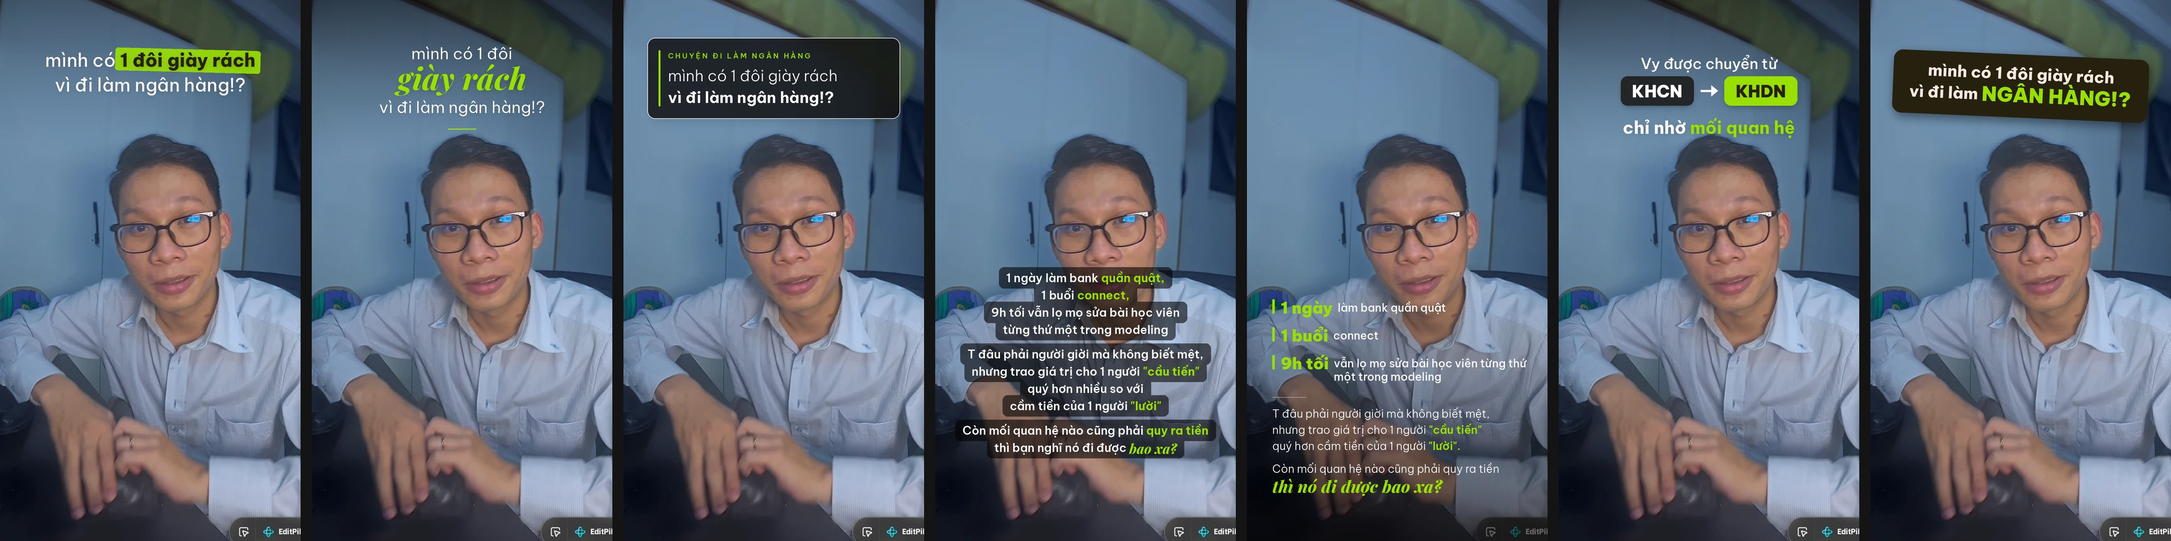
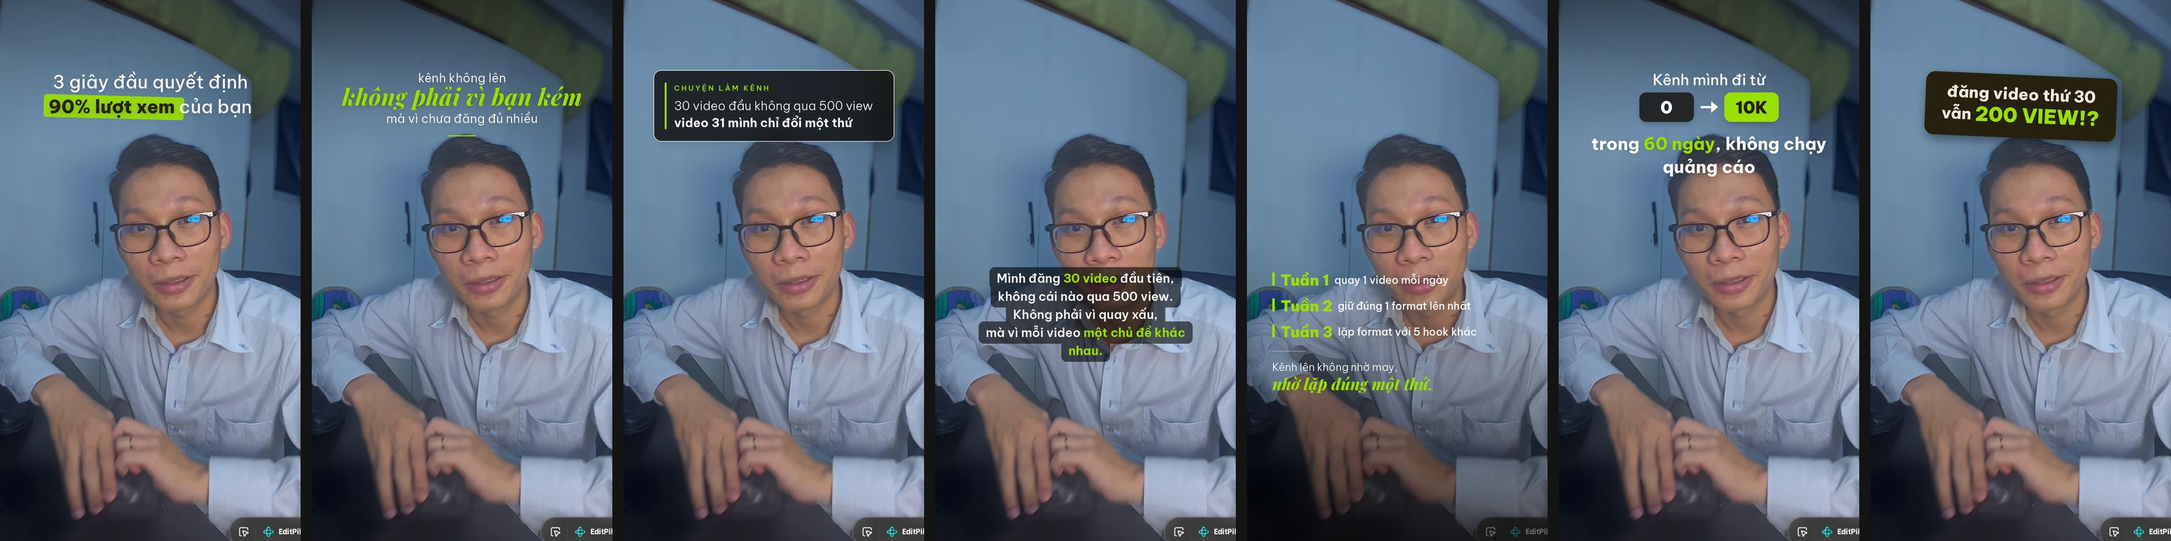
Vùng an toàn theo nền tảng cho hook text
Web tool: chọn TikTok, IG/FB Reels, Meta Ads, Shorts hoặc cả ba; vẽ khung
UI đè lên preview; cảnh báo đỏ khi chữ lẹm vào thanh trên, caption hay
cột icon; nút tự đẩy chữ vào vùng an toàn. Vị trí và bề rộng mặc định
đổi theo số liệu safe zone. Script Python và SKILL.md kiểm tra và ghi
cảnh báo tương tự; ví dụ đổi sang nội dung làm kênh.

Claude-Session: https://claude.ai/code/session_0128yqN4exyaiBnw6Q2oeZMf

diff --git a/tools/hook-text.html b/tools/hook-text.html
@@ -102,6 +102,13 @@
   .strip button[aria-pressed="true"]{border-color:var(--accent)}
   .strip canvas{width:100%;height:auto;display:block;border-radius:5px;background:#111}
   .meta{display:flex;justify-content:space-between;color:var(--muted);font-size:12px;margin-top:8px;font-variant-numeric:tabular-nums}
+  .safe{margin-top:10px;border:1px solid var(--line);border-radius:12px;padding:10px 12px;background:var(--surface)}
+  .safe .row{gap:6px}
+  .safe-status{font-size:12.5px;margin-top:8px;line-height:1.45}
+  .safe-status.bad{color:var(--danger);font-weight:600}
+  .safe-status.good{color:var(--ok);font-weight:600}
+  .phone{position:relative}
+  .phone canvas#uiLayer{position:absolute;inset:8px;width:calc(100% - 16px);height:calc(100% - 16px);pointer-events:none;border-radius:16px;background:transparent}
 
   .out-actions{display:flex;gap:8px;flex-wrap:wrap}
   .guide{background:var(--surface-2);border:1px solid var(--line);border-radius:10px;padding:12px;font-size:13px;white-space:pre-wrap;max-height:260px;overflow:auto;line-height:1.55}
@@ -195,9 +202,9 @@
 
       <section class="card">
         <h2><span class="n">4</span>Tinh chỉnh</h2>
-        <div class="slider"><span>Vị trí dọc</span><input type="range" id="ypct" min="3" max="80" value="8"><output id="ypctOut">8%</output></div>
+        <div class="slider"><span>Vị trí dọc</span><input type="range" id="ypct" min="3" max="80" value="13"><output id="ypctOut">13%</output></div>
         <div class="slider"><span>Cỡ chữ</span><input type="range" id="size" min="30" max="110" value="66"><output id="sizeOut">66px</output></div>
-        <div class="slider"><span>Bề rộng tối đa</span><input type="range" id="maxw" min="60" max="96" value="86"><output id="maxwOut">86%</output></div>
+        <div class="slider"><span>Bề rộng tối đa</span><input type="range" id="maxw" min="60" max="96" value="80"><output id="maxwOut">80%</output></div>
         <div class="row" style="margin-top:6px">
           <span class="hint" style="margin:0">Căn:</span>
           <div class="seg" id="align" role="group" aria-label="Căn lề"><button data-v="center" aria-pressed="true">Giữa</button><button data-v="left" aria-pressed="false">Trái</button></div>
@@ -253,7 +260,7 @@
 3. Animation → In: Fade 0.3s hoặc Slide up 0.4s. Out: Fade 0.3s. Không dùng hiệu ứng nảy, xoay.
 4. Nếu mẫu có phủ tối: thêm hình chữ nhật đen (Stickers → Shapes), kéo che vùng chữ, Opacity 40 đến 55%, Mask → Linear để mờ dần, đặt dưới lớp chữ.
 5. Muốn gõ chữ trực tiếp thay vì dùng PNG: Text → Add text, font Be Vietnam Pro (CapCut có sẵn), cỡ và màu theo thông số trên, Shadow đen 60 đến 70%, Blur 10 đến 12.
-6. Vùng an toàn: cách mép trên 6%, cách mép dưới 22% (nơi TikTok đặt caption và nút). Không đè chữ lên mặt.</div>
+6. Vùng an toàn: trên 150px, dưới 484px, cột phải 140px trên khung 1080x1920 (TikTok); IG/FB Reels trên 220px, dưới 430px; Meta Ads trên 14%, dưới 35%, hai bên 6%. Bật "Hiện khung UI" bên preview để soi. Không đè chữ lên mặt.</div>
         </details>
       </section>
 
@@ -285,9 +292,24 @@
     </div>
 
     <aside class="col preview-col">
-      <div class="phone"><canvas id="preview" width="1080" height="1920"></canvas></div>
+      <div class="phone"><canvas id="preview" width="1080" height="1920"></canvas><canvas id="uiLayer" width="1080" height="1920" aria-hidden="true"></canvas></div>
       <div class="strip" id="strip"></div>
       <div class="meta"><span id="metaSize">1080 × 1920</span><span id="metaTpl">highlight</span></div>
+      <div class="safe">
+        <div class="row" style="justify-content:space-between">
+          <b style="font-size:13px">Vùng an toàn</b>
+          <label style="font-size:12.5px;color:var(--muted);display:flex;gap:6px;align-items:center"><input type="checkbox" id="showUi" checked> Hiện khung UI</label>
+        </div>
+        <div class="seg" id="platform" role="group" aria-label="Nền tảng" style="margin-top:8px;flex-wrap:wrap">
+          <button data-v="all" aria-pressed="true">Cả 3</button>
+          <button data-v="tiktok" aria-pressed="false">TikTok</button>
+          <button data-v="meta" aria-pressed="false">IG / FB Reels</button>
+          <button data-v="metaads" aria-pressed="false">Meta Ads</button>
+          <button data-v="shorts" aria-pressed="false">Shorts</button>
+        </div>
+        <div class="safe-status" id="safeStatus"></div>
+        <div class="row" style="margin-top:8px"><button class="btn sm" id="btnFit">Đẩy chữ vào vùng an toàn</button></div>
+      </div>
     </aside>
   </div>
 </div>
@@ -319,24 +341,24 @@ const PRESETS = [
   { name: 'Xanh dương', c: { accent: '#4DA3FF', dark: '#0E1626', light: '#FFFFFF', cream: '#EEF5FF' } },
 ];
 const TEMPLATES = {
-  highlight: { name: 'Vệt bút dạ', desc: 'Chữ trắng, từ khóa trong vệt highlight. Mặc định cho kênh.', size: 66, y: 8 },
-  editorial: { name: 'Editorial', desc: 'Sans nhẹ, cụm chốt serif nghiêng to. Sang, kể chuyện.', size: 58, y: 8 },
-  glass:     { name: 'Kính mờ', desc: 'Thẻ blur nền, có dòng chủ đề. Hợp nền rối, series.', size: 56, y: 7 },
-  sticker:   { name: 'Sticker', desc: 'Thẻ đen nghiêng, chữ kem. Hài, đời thường.', size: 58, y: 9 },
-  bubbles:   { name: 'Hộp chữ', desc: 'Hộp đen từng dòng kiểu TikTok. Text dài, tâm sự.', size: 46, y: 52 },
-  timeline:  { name: 'Mốc song song', desc: '3 mốc màu nhấn bên trái. Ba ý, ba bước.', size: 40, y: 55 },
-  chips:     { name: 'Từ A sang B', desc: 'Hai chip nối mũi tên. Chuyển đổi, hành trình.', size: 60, y: 10 },
+  highlight: { name: 'Vệt bút dạ', desc: 'Chữ trắng, từ khóa trong vệt highlight. Mặc định cho kênh.', size: 66, y: 13 },
+  editorial: { name: 'Editorial', desc: 'Sans nhẹ, cụm chốt serif nghiêng to. Sang, kể chuyện.', size: 58, y: 13 },
+  glass:     { name: 'Kính mờ', desc: 'Thẻ blur nền, có dòng chủ đề. Hợp nền rối, series.', size: 56, y: 13 },
+  sticker:   { name: 'Sticker', desc: 'Thẻ đen nghiêng, chữ kem. Hài, đời thường.', size: 58, y: 13 },
+  bubbles:   { name: 'Hộp chữ', desc: 'Hộp đen từng dòng kiểu TikTok. Text dài, tâm sự.', size: 46, y: 50 },
+  timeline:  { name: 'Mốc song song', desc: '3 mốc màu nhấn bên trái. Ba ý, ba bước.', size: 40, y: 50 },
+  chips:     { name: 'Từ A sang B', desc: 'Hai chip nối mũi tên. Chuyển đổi, hành trình.', size: 60, y: 13 },
   titlecard: { name: 'Thẻ tiêu đề', desc: 'Phủ tối toàn khung, một câu thật to. Frame đầu tiên, 5 đến 8 từ.', size: 84, y: 40 },
   list:      { name: 'Danh sách số', desc: 'Số trong tròn màu nhấn, mỗi dòng một ý. Kiểu "3 điều...".', size: 46, y: 50 },
-  knockout:  { name: 'Chữ đục lỗ', desc: 'Dải tối, chữ khoét thấy video phía sau. Tạp chí, thời trang.', size: 110, y: 12 },
-  lowerthird:{ name: 'Lower third', desc: 'Thanh tên góc dưới trái, dòng nhỏ + dòng đậm. Giới thiệu, phỏng vấn.', size: 50, y: 64 },
-  quote:     { name: 'Trích dẫn', desc: 'Dấu ngoặc kép to, serif nghiêng, dòng ký tên. Cảm xúc, chiêm nghiệm.', size: 60, y: 56 },
-  pov:       { name: 'Nhãn POV', desc: 'Chip nhãn nhỏ phía trên, câu to, dòng phụ nhỏ. Phân cấp 3 tầng.', size: 72, y: 9 },
-  outline:   { name: 'Chữ viền rỗng', desc: 'Chữ chỉ có viền trắng, từ khóa tô đặc màu nhấn. Táo bạo, trẻ.', size: 96, y: 10 },
+  knockout:  { name: 'Chữ đục lỗ', desc: 'Dải tối, chữ khoét thấy video phía sau. Tạp chí, thời trang.', size: 110, y: 14 },
+  lowerthird:{ name: 'Lower third', desc: 'Thanh tên góc dưới trái, dòng nhỏ + dòng đậm. Giới thiệu, phỏng vấn.', size: 50, y: 60 },
+  quote:     { name: 'Trích dẫn', desc: 'Dấu ngoặc kép to, serif nghiêng, dòng ký tên. Cảm xúc, chiêm nghiệm.', size: 60, y: 50 },
+  pov:       { name: 'Nhãn POV', desc: 'Chip nhãn nhỏ phía trên, câu to, dòng phụ nhỏ. Phân cấp 3 tầng.', size: 72, y: 13 },
+  outline:   { name: 'Chữ viền rỗng', desc: 'Chữ chỉ có viền trắng, từ khóa tô đặc màu nhấn. Táo bạo, trẻ.', size: 96, y: 13 },
 };
 const state = {
   frame: null, frameName: '', facePos: 'mid',
-  template: 'highlight', ypct: 8, size: 66, maxw: 86, align: 'center', dim: 'auto',
+  template: 'highlight', ypct: 13, size: 66, maxw: 80, align: 'center', dim: 'auto',
   brand: { ...TMXK }, kicker: 'Chuyện làm kênh', tilt: -2.5,
   rows: [['Tuần 1', 'quay 1 video mỗi ngày, không cần đẹp'], ['Tuần 2', 'xem lại 7 video, giữ đúng 1 format lên nhất'], ['Tuần 3', 'lặp format đó với 5 hook khác nhau']],
   chips: ['0', '10K'], lead: 'Kênh mình đi từ',
@@ -659,6 +681,79 @@ T.outline = (c, ov) => {
 const DEFAULT_DIM = { highlight: ['top', .28, .35], editorial: ['top', .30, .55], chips: ['top', .28, .47], timeline: ['bottom', .55, .6], bubbles: null, glass: null, sticker: null,
   titlecard: null, list: ['bottom', .6, .62], knockout: null, lowerthird: null, quote: ['bottom', .6, .6], pov: ['top', .32, .5], outline: ['top', .3, .45] };
 
+/* ---------- vùng an toàn theo nền tảng (khung 1080x1920) ---------- */
+// Nguồn: template safe zone quảng cáo TikTok (trên 130, dưới 484, phải 140, trái 44);
+// Meta Reels IG/FB tổ chức: trên 220, dưới 430, phải 130; Meta Ads chính thức: trên 14%, dưới 35%, hai bên 6%;
+// YouTube Shorts: trên 150, dưới 450, phải 150.
+const ZONES = {
+  tiktok: { name: 'TikTok', rects: [
+    { n: 'thanh trên (Following / For You)', x: 0, y: 0, w: 1080, h: 150 },
+    { n: 'caption, tên kênh, nhạc', x: 0, y: 1436, w: 1080, h: 484 },
+    { n: 'cột icon like, comment, share', x: 940, y: 980, w: 140, h: 470 },
+    { n: 'mép trái', x: 0, y: 0, w: 44, h: 1920 } ] },
+  meta: { name: 'IG / FB Reels', rects: [
+    { n: 'tiêu đề Reels, camera', x: 0, y: 0, w: 1080, h: 220 },
+    { n: 'caption, tên tài khoản, audio', x: 0, y: 1490, w: 1080, h: 430 },
+    { n: 'cột icon like, comment, share', x: 950, y: 1130, w: 130, h: 600 },
+    { n: 'mép trái', x: 0, y: 0, w: 60, h: 1920 } ] },
+  metaads: { name: 'Meta Ads (Reels, Stories)', rects: [
+    { n: 'vùng trên 14%', x: 0, y: 0, w: 1080, h: 269 },
+    { n: 'vùng dưới 35% (CTA, caption)', x: 0, y: 1248, w: 1080, h: 672 },
+    { n: 'mép trái 6%', x: 0, y: 0, w: 65, h: 1920 },
+    { n: 'mép phải 6%', x: 1015, y: 0, w: 65, h: 1920 } ] },
+  shorts: { name: 'YouTube Shorts', rects: [
+    { n: 'thanh trên', x: 0, y: 0, w: 1080, h: 150 },
+    { n: 'tiêu đề, kênh, nhạc', x: 0, y: 1470, w: 1080, h: 450 },
+    { n: 'cột icon', x: 930, y: 1000, w: 150, h: 560 } ] },
+};
+const PLATFORM_SETS = { all: ['tiktok', 'meta', 'shorts'], tiktok: ['tiktok'], meta: ['meta'], metaads: ['metaads'], shorts: ['shorts'] };
+state.platform = 'all'; state.showUi = true;
+function zoneRects(H) { const sc = H / 1920; const out = []; for (const k of PLATFORM_SETS[state.platform]) for (const r of ZONES[k].rects) out.push({ ...r, x: r.x, y: r.y * sc, w: r.w, h: r.h * sc, plat: ZONES[k].name }); return out; }
+function drawUiLayer(H) {
+  const cv = $('#uiLayer'); cv.width = BASE_W; cv.height = H; const g = cv.getContext('2d'); g.clearRect(0, 0, BASE_W, H);
+  if (!state.showUi) return;
+  for (const r of zoneRects(H)) {
+    g.fillStyle = 'rgba(220,60,40,.18)'; g.fillRect(r.x, r.y, r.w, r.h);
+    g.save(); g.beginPath(); g.rect(r.x, r.y, r.w, r.h); g.clip(); g.strokeStyle = 'rgba(220,60,40,.35)'; g.lineWidth = 3;
+    for (let d = -H; d < BASE_W + H; d += 48) { g.beginPath(); g.moveTo(r.x + d, r.y); g.lineTo(r.x + d + r.h, r.y + r.h); g.stroke(); } g.restore();
+    g.strokeStyle = 'rgba(220,60,40,.7)'; g.lineWidth = 3; g.setLineDash([12, 10]); g.strokeRect(r.x + 1.5, r.y + 1.5, r.w - 3, r.h - 3); g.setLineDash([]);
+  }
+  // nhãn gọn ở mép
+  g.font = '700 26px "Be Vietnam Pro", system-ui, sans-serif'; g.fillStyle = 'rgba(220,60,40,.9)'; g.textAlign = 'left';
+  const top = Math.max(...zoneRects(H).filter(r => r.y === 0 && r.w === BASE_W).map(r => r.h), 0); if (top) g.fillText('vùng UI trên', 24, top - 14);
+  const bot = zoneRects(H).filter(r => r.y + r.h >= H - 1 && r.w === BASE_W).map(r => r.y); if (bot.length) g.fillText('vùng caption / nút', 24, Math.min(...bot) + 34);
+}
+function checkSafe(bbox, H) {
+  const el = $('#safeStatus'); if (!bbox) { el.textContent = ''; el.className = 'safe-status'; return; }
+  const hits = []; const seen = new Set();
+  for (const r of zoneRects(H)) { const ix = Math.min(bbox.right, r.x + r.w) - Math.max(bbox.left, r.x); const iy = Math.min(bbox.bot, r.y + r.h) - Math.max(bbox.top, r.y); if (ix > 6 && iy > 6) { const key = r.plat + ': ' + r.n; if (!seen.has(key)) { seen.add(key); hits.push(key); } } }
+  const zr = zoneRects(H); const topZ = Math.max(...zr.filter(r => r.y === 0 && r.w === BASE_W).map(r => r.h), 0); const botZ = Math.min(...zr.filter(r => r.y + r.h >= H - 1 && r.w === BASE_W).map(r => r.y), H);
+  const tooTall = (bbox.bot - bbox.top) > (botZ - topZ - 24);
+  if (hits.length) { el.className = 'safe-status bad'; el.textContent = 'Chữ đang lẹm vào ' + hits.join(' · ') + (tooTall ? '. Khối chữ cao hơn cả vùng an toàn: giảm cỡ chữ hoặc tách thành nhiều khối hiện lần lượt.' : '. Bấm nút bên dưới hoặc kéo thanh Vị trí dọc.'); }
+  else { el.className = 'safe-status good'; el.textContent = `Sạch. Chữ nằm ngoài mọi vùng UI của ${PLATFORM_SETS[state.platform].map(k => ZONES[k].name).join(', ')}.`; }
+  return hits.length;
+}
+function fitToSafe() {
+  if (!lastRender) return; const H = lastRender.fr.height; const bbox = alphaBBox(lastRender.ov); if (!bbox) return;
+  const zr = zoneRects(H); const topZ = Math.max(...zr.filter(r => r.y === 0 && r.w === BASE_W).map(r => r.h), 0);
+  const botZ = Math.min(...zr.filter(r => r.y + r.h >= H - 1 && r.w === BASE_W).map(r => r.y), H);
+  const rightCol = zr.filter(r => r.x + r.w >= BASE_W - 1 && r.h < H); const leftM = Math.max(...zr.filter(r => r.x === 0 && r.h >= H - 1).map(r => r.w), 0);
+  const textH = bbox.bot - bbox.top; const pad = 16;
+  // 1) co bề rộng để né cột icon phải và mép trái
+  const rightM = rightCol.length ? Math.max(...rightCol.map(r => r.w)) : Math.max(...zr.filter(r => r.x + r.w >= BASE_W - 1).map(r => r.w), 0);
+  const allowW = BASE_W - 2 * Math.max(leftM, rightM) - 2 * pad; const newMaxw = Math.max(60, Math.min(state.maxw, Math.floor(allowW / BASE_W * 100)));
+  // 2) chọn vị trí: giữ ở nửa đang đứng (trên hoặc dưới), đẩy vào trong
+  const curTop = bbox.top; let newTop;
+  const upperBand = [topZ + pad, Math.min(...rightCol.map(r => r.y), botZ) - pad];   // trên cột icon
+  const lowerBand = [Math.max(...rightCol.map(r => r.y + r.h), topZ) + pad, botZ - pad]; // dưới cột icon (chỉ khi né được)
+  const fitsUpper = textH <= upperBand[1] - upperBand[0]; const fitsLower = rightCol.length && textH <= lowerBand[1] - lowerBand[0];
+  if (curTop < H / 2) newTop = fitsUpper ? Math.min(Math.max(curTop, upperBand[0]), upperBand[1] - textH) : topZ + pad;
+  else newTop = (fitsLower ? Math.min(Math.max(curTop, lowerBand[0]), lowerBand[1] - textH) : Math.max(topZ + pad, botZ - pad - textH));
+  const shift = newTop - bbox.top; state.ypct = Math.round(Math.min(80, Math.max(3, state.ypct + shift / H * 100)));
+  if (newMaxw < state.maxw) state.maxw = newMaxw;
+  syncSliders(); render().then(() => { const n = checkSafe(alphaBBox(lastRender.ov), lastRender.fr.height); toast(n ? 'Đã đẩy vào, còn vướng một chút: giảm cỡ chữ hoặc bớt dòng.' : 'Đã đưa vào vùng an toàn.'); });
+}
+
 /* ---------- render pipeline ---------- */
 let fontsReady = false;
 async function ensureFonts() {
@@ -695,6 +790,7 @@ async function render() {
   lastRender = { fr, ov, notes, dm, opts };
   $('#metaSize').textContent = `${fr.width} × ${fr.height}`; $('#metaTpl').textContent = TEMPLATES[opts.template].name;
   const bbox = alphaBBox(ov); writeGuide(opts, notes, dm, bbox, fr.height);
+  drawUiLayer(fr.height); checkSafe(bbox, fr.height);
   renderStrip();
 }
 function alphaBBox(cv) {
@@ -709,6 +805,7 @@ function writeGuide(opts, notes, dm, bbox, H) {
   if (dm) lines.push(`Phủ tối: gradient đen từ mép ${dm[0] === 'top' ? 'trên' : 'dưới'} vào ${Math.round(dm[1] * 100)}% khung, đậm nhất ${Math.round(dm[2] * 100)}%.`);
   lines.push(...notes);
   lines.push(`Màu: nhấn ${opts.brand.accent}, tối ${opts.brand.dark}, chữ sáng ${opts.brand.light}, kem ${opts.brand.cream}.`);
+  lines.push(`Vùng an toàn đã kiểm tra: ${PLATFORM_SETS[state.platform].map(k => ZONES[k].name).join(', ')}. Quy tắc chung: trên 150px, dưới 484px, cột phải 140px trên khung 1080x1920 (Meta Ads chặt hơn: trên 14%, dưới 35%, hai bên 6%).`);
   lines.push(`Font: Be Vietnam Pro và Playfair Display Italic (Google Fonts, miễn phí, đủ dấu tiếng Việt).`);
   $('#guide').textContent = lines.join('\n');
 }
@@ -727,9 +824,9 @@ function renderStrip() {
 function autoY(key) {
   const low = ['bubbles', 'timeline', 'list', 'lowerthird', 'quote'].includes(key);
   if (key === 'titlecard') return 40;
-  if (state.facePos === 'top') return low ? 60 : 62;      // mặt ở trên: đẩy chữ xuống ngực
-  if (state.facePos === 'low') return low ? 8 : 8;        // mặt ở dưới: chữ ở trên
-  return low ? 52 : TEMPLATES[key].y;                     // mặt ở giữa
+  if (state.facePos === 'top') return low ? 50 : 52;      // mặt ở trên: đẩy chữ xuống ngực
+  if (state.facePos === 'low') return 13;        // mặt ở dưới: chữ ở trên
+  return low ? 50 : TEMPLATES[key].y;                     // mặt ở giữa
 }
 
 /* ---------- UI wiring ---------- */
@@ -919,6 +1016,9 @@ function sampleFrame() {
   drop.addEventListener('drop', e => loadFrameFile(e.dataTransfer.files[0]));
   document.addEventListener('paste', e => { const f = [...(e.clipboardData?.files || [])][0]; if (f) loadFrameFile(f); });
 
+  bindSeg('platform', v => { state.platform = v; if (lastRender) { drawUiLayer(lastRender.fr.height); checkSafe(alphaBBox(lastRender.ov), lastRender.fr.height); } });
+  $('#showUi').addEventListener('change', e => { state.showUi = e.target.checked; if (lastRender) drawUiLayer(lastRender.fr.height); });
+  $('#btnFit').addEventListener('click', fitToSafe);
   bindSeg('facePos', v => { state.facePos = v; state.ypct = autoY(state.template); syncSliders(); scheduleRender(); });
   bindSeg('align', v => { state.align = v; scheduleRender(); });
   bindSeg('dim', v => { state.dim = v; scheduleRender(); });

diff --git a/.claude/skills/hook-text/scripts/render.py b/.claude/skills/hook-text/scripts/render.py
@@ -364,6 +364,25 @@ TEMPLATES = {'highlight': t_highlight, 'sticker': t_sticker, 'glass': t_glass, '
 DEFAULT_DIM = {'highlight': ('top', 0.28, 90), 'editorial': ('top', 0.30, 140), 'bubbles': None, 'timeline': ('bottom', 0.55, 150),
                'chips': ('top', 0.28, 120), 'glass': None, 'sticker': None}
 
+
+# Vùng UI các nền tảng trên khung 1080x1920 (tỉ lệ theo chiều cao khi khung khác).
+# TikTok: template safe zone quảng cáo (trên 130-150, dưới 484, cột phải 140, trái 44).
+# IG/FB Reels tổ chức: trên 220, dưới 430, cột phải 130. Meta Ads: trên 14%, dưới 35%, hai bên 6%.
+SAFE_ZONES = {
+    'TikTok': [('thanh trên', 0, 0, 1080, 150), ('caption và tên kênh', 0, 1436, 1080, 484), ('cột icon phải', 940, 980, 140, 470), ('mép trái', 0, 0, 44, 1920)],
+    'IG/FB Reels': [('tiêu đề Reels', 0, 0, 1080, 220), ('caption và audio', 0, 1490, 1080, 430), ('cột icon phải', 950, 1130, 130, 600), ('mép trái', 0, 0, 60, 1920)],
+    'YouTube Shorts': [('thanh trên', 0, 0, 1080, 150), ('tiêu đề và kênh', 0, 1470, 1080, 450), ('cột icon phải', 930, 1000, 150, 560)],
+}
+def safe_zone_hits(bbox, W, H):
+    """Trả về danh sách 'Nền tảng: vùng' mà hộp chữ lẹm vào."""
+    sx, sy = W / 1080, H / 1920; hits = []
+    for plat, rects in SAFE_ZONES.items():
+        for n, x, y, w, h in rects:
+            x, y, w, h = x * sx, y * sy, w * sx, h * sy
+            ix = min(bbox[2], x + w) - max(bbox[0], x); iy = min(bbox[3], y + h) - max(bbox[1], y)
+            if ix > 6 and iy > 6: hits.append(f'{plat}: {n}')
+    return hits
+
 # ---------------------------------------------------------------- main
 def run(spec):
     out = spec.get('out_dir', 'out'); os.makedirs(out, exist_ok=True)
@@ -389,6 +408,12 @@ def run(spec):
         guide.append(f"## {pid} — mẫu `{v['template']}`\n")
         guide.append(f"- Vùng chữ: từ {top_pct:.0f}% đến {bot_pct:.0f}% chiều cao khung, rộng {(bbox[2]-bbox[0])/frame.width*100:.0f}% khung, căn {'giữa' if v.get('align','center')=='center' else 'trái'}.")
         if dm: guide.append(f"- Phủ tối: gradient đen từ mép {'trên' if dm[0]=='top' else 'dưới'} vào {int(dm[1]*100)}% khung, đậm nhất {int(dm[2]/255*100)}%.")
+        hits = safe_zone_hits(bbox, frame.width, frame.height)
+        if hits:
+            guide.append(f"- CẢNH BÁO lẹm vùng UI: {' · '.join(hits)}. Sửa y_pct hoặc giảm size/max_width_pct rồi render lại.")
+            print(f'!! {pid}: lẹm vùng UI -> ' + ' · '.join(hits))
+        else:
+            guide.append("- Vùng an toàn: sạch trên TikTok, IG/FB Reels và YouTube Shorts.")
         for n in ctx.notes: guide.append(f"- {n}")
         guide.append(f"- File: `{pid}-overlay.png` (nền trong suốt) thả thẳng lên timeline, hoặc dựng tay theo thông số trên.\n")
     # contact sheet
@@ -420,7 +445,7 @@ CAPCUT_STEPS = """
 6. Căn vị trí theo % chiều cao đã ghi. Bật lưới (Ruler/Grid) để căn giữa.
 
 **Quy tắc luôn giữ**
-- Không đè chữ lên mặt. Vùng an toàn: cách mép trên 6%, cách mép dưới 22% (nơi TikTok đặt caption và nút).
+- Không đè chữ lên mặt. Vùng an toàn trên khung 1080x1920: TikTok trên 150px, dưới 484px, cột icon phải 140px; IG/FB Reels trên 220px, dưới 430px; Meta Ads chặt hơn: trên 14%, dưới 35%, hai bên 6%. Script tự báo nếu chữ lẹm.
 - Tối đa 2 dòng cho hook mở đầu, cỡ chữ không nhỏ hơn 40px trên khung 1080.
 - Một video chỉ một màu nhấn. Ở đây là màu accent của brand.
 - Hook phải đọc được trong 1 giây đầu: thử tắt tiếng, lướt qua trên điện thoại, nếu không nắm được ý thì cỡ chữ đang nhỏ hoặc câu đang dài.

diff --git a/.claude/skills/hook-text/SKILL.md b/.claude/skills/hook-text/SKILL.md
@@ -20,7 +20,8 @@ Nếu thiếu một trong hai, hỏi đúng thứ thiếu rồi dừng.
 
 Xem ảnh và ghi nhận:
 - **Vị trí mặt và thân người** theo % chiều cao (ví dụ mặt từ 30% đến 55%). Chữ không được đè mặt.
-- **Vùng trống**: thường là phía trên đầu (5% đến 25%) hoặc ngực/tay (55% đến 78%). Vùng dưới 78% là chỗ TikTok đặt caption và nút, tránh.
+- **Vùng trống**: thường là phía trên đầu (12% đến 28%) hoặc ngực/tay (50% đến 74%).
+- **Vùng UI của nền tảng, bắt buộc né** (khung 1080x1920): TikTok trên 150px (8%), dưới 484px (từ 75% trở xuống), cột icon phải 140px trong khoảng 51% đến 76% chiều cao; IG/FB Reels trên 220px (11.5%), dưới 430px (từ 78%), cột icon phải 130px trong khoảng 59% đến 90%; Meta Ads chặt hơn: trên 14%, dưới 35%, hai bên 6%. Vì học viên đăng chéo nền tảng, mặc định né cả TikTok lẫn Reels: bắt đầu chữ từ 12% trở xuống, kết thúc trước 74%, và không để chữ chạm mép phải khi nằm trong dải 51% đến 76%.
 - **Nền vùng trống**: sáng hay tối, đơn giản hay rối. Nền sáng đơn giản thì chữ trắng cần phủ tối nhẹ. Nền rối (kệ đồ, bàn thờ, cửa sổ nhiều chi tiết) thì nên dùng mẫu có nền chữ (`glass`, `bubbles`, `sticker`).
 - **Tỉ lệ khung**: 9:16, 3:4 hay 4:5. Script tự giữ tỉ lệ.
 
@@ -58,13 +59,13 @@ python3 .claude/skills/hook-text/scripts/render.py spec.json
 
 Script cần Pillow và numpy. Nếu thiếu: `pip install pillow numpy`.
 
-Đặt `y_pct` theo vùng trống đã xác định ở bước 1. Với hook ở trên: 0.07 đến 0.10. Với text ở ngực: 0.50 đến 0.58.
+Đặt `y_pct` theo vùng trống đã xác định ở bước 1. Với hook ở trên: 0.12 đến 0.14. Với text ở ngực: 0.48 đến 0.52. `max_width_pct` để 0.80 khi căn giữa để không chạm cột icon phải.
 
 ### Bước 5: Kiểm tra trước khi gửi
 
 Mở `contact-sheet.jpg` và soát từng điểm. Sai bất kỳ điểm nào thì sửa spec và render lại, không gửi bản lỗi kèm lời xin lỗi.
 
-- Chữ không chạm mặt, không tràn mép, không rơi xuống dưới 78% chiều cao.
+- Chữ không chạm mặt, không tràn mép. Script in dòng `!!` nếu chữ lẹm vùng UI của TikTok, IG/FB Reels hoặc Shorts; có dòng đó là phải sửa, không được gửi.
 - Không mất khoảng trắng giữa chữ thường và từ khóa.
 - Ngắt dòng hợp nghĩa, không có dòng lẻ một từ.
 - Từ khóa nhấn đúng chỗ người dùng muốn.

diff --git a/.claude/skills/hook-text/reference/templates.md b/.claude/skills/hook-text/reference/templates.md
@@ -9,9 +9,9 @@ Trường chung cho mọi variant trong spec:
 | `id` | tên file đầu ra | bắt buộc |
 | `template` | một trong 7 mẫu dưới | bắt buộc |
 | `blocks` | danh sách đoạn text, mỗi đoạn là một khối; trong đoạn dùng `\n` để ngắt dòng | bắt buộc, trừ `timeline` và `chips` có thể để `[]` |
-| `y_pct` | mép trên của khối chữ, tính theo % chiều cao khung (0.08 = 8%) | 0.08 |
+| `y_pct` | mép trên của khối chữ, tính theo % chiều cao khung (0.12 = 12%). Hook ở trên: 0.12 đến 0.14 để né thanh trên của Reels; text ở ngực: 0.48 đến 0.52 để kết thúc trước 74% | 0.08 |
 | `size` | cỡ chữ cơ bản (px trên khung 1080) | tùy mẫu |
-| `max_width_pct` | bề rộng tối đa của chữ so với khung | 0.86 |
+| `max_width_pct` | bề rộng tối đa của chữ so với khung; 0.80 khi căn giữa để không chạm cột icon phải | 0.86 |
 | `align` | `center` hoặc `left` (chỉ `highlight` và `bubbles`) | center |
 | `dim` | phủ tối: `["top" hoặc "bottom", tỉ lệ chiều cao, độ đậm 0-255]`, hoặc `null` để tắt | tùy mẫu |
 
